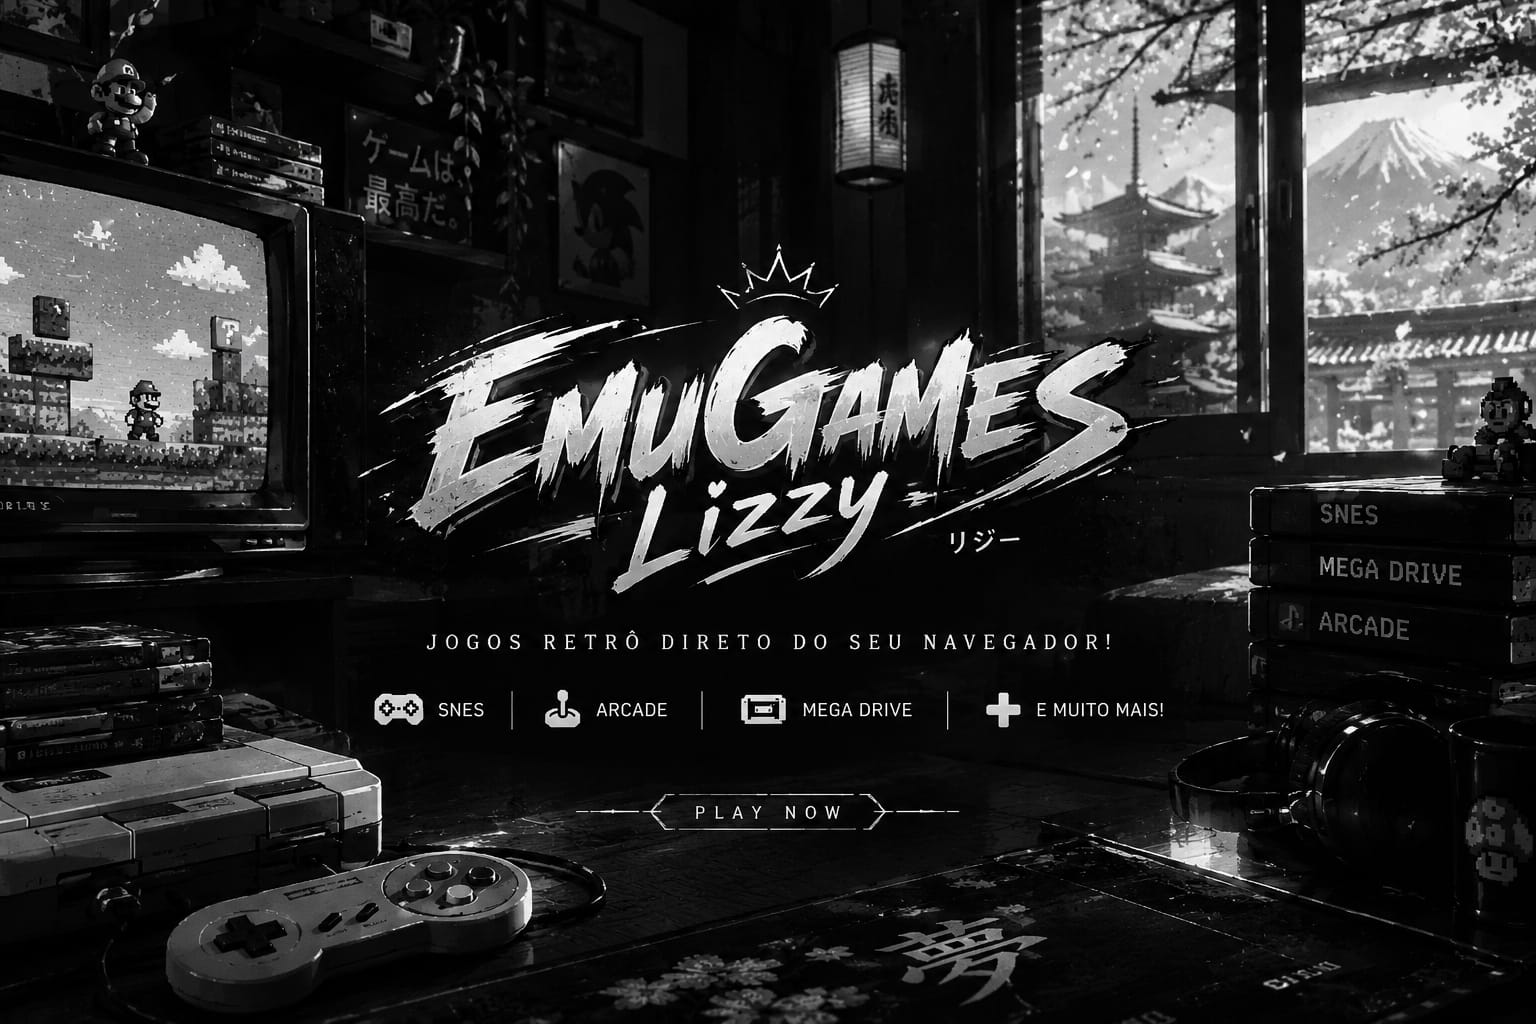
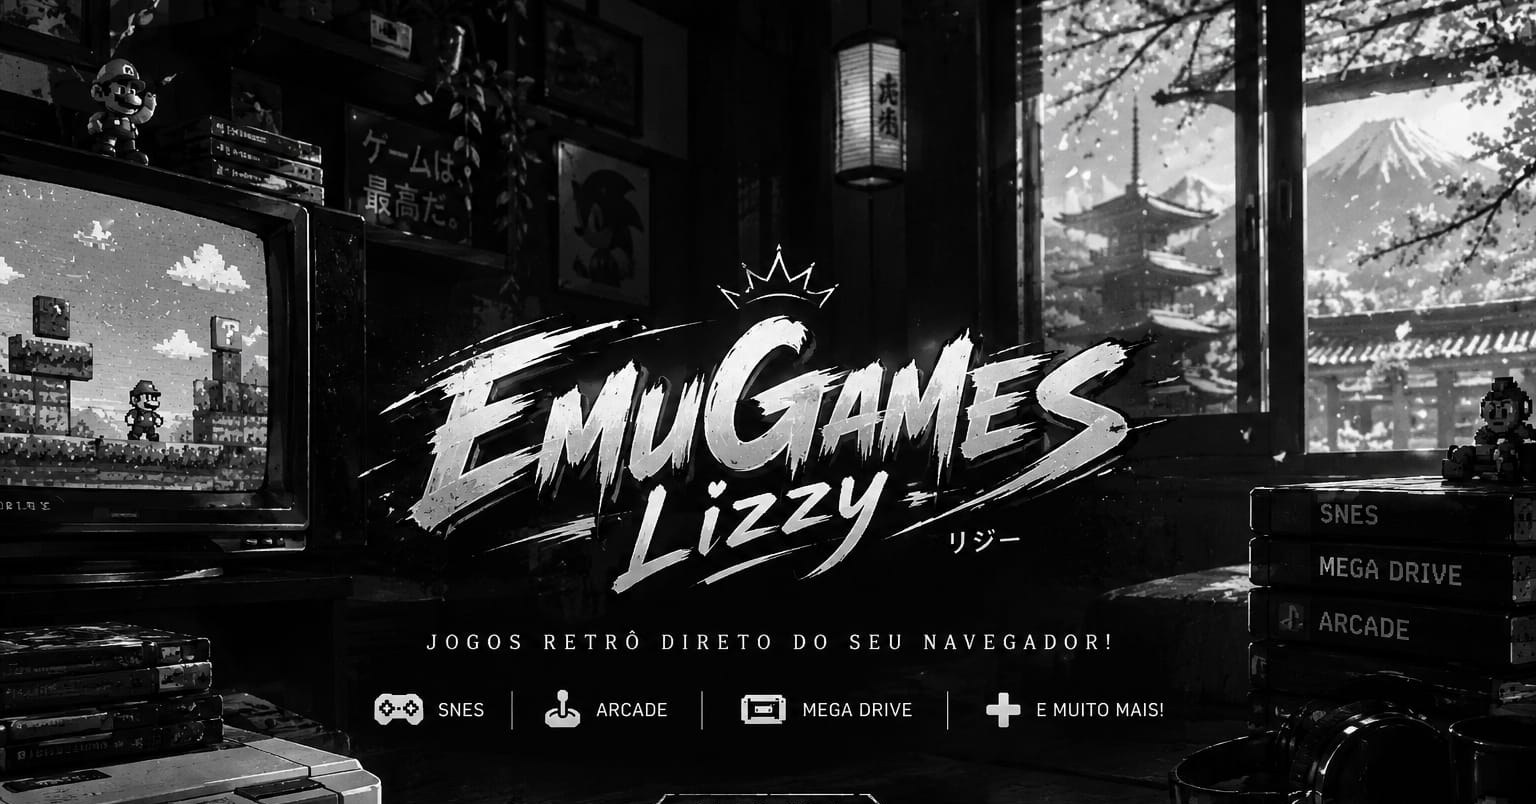
feat(home): cards de perfil grandes (preenchem o vazio) + preview 1.91:1
Cards de perfil:
- Ficam um embaixo do outro (Kannon/Criador primeiro), retangulares, com o
  conteudo centralizado: papel, nome e os botoes
- Crescem para absorver a sobra da home, entao preenchem o vazio do rodape
  em vez de deixar buraco (em telas altas ficam bem grandes)
- min-height min-content: sem isso o flex encolhia o card ABAIXO do conteudo
  em tela baixa e ele vazava para fora (documento ganhava rolagem)
- white-space nowrap no nome: o nome do Kannon e maior e, quebrando, o card
  dele ficava mais alto que o do M06

Preview do link:
- preview.jpg regerada em 1.91:1 (1536x804), a proporcao do preview GRANDE do
  WhatsApp; em 3:2 (1536x1024) ele cortava ou usava o card pequeno
- O corte manteve o TOPO: o assunto esta todo nos 512px de cima (medido por
  brilho/detalhe por linha); a metade de baixo e quase preta
- og:image:height atualizado para 804

Layout: em telas de altura media/baixa (900px/620px) os vaos, o video e os
cards de recentes encolhem para a home caber inteira.

Medido em 14 tamanhos (320x480 a 2560x1440): sem corte de card, sem overflow
horizontal; retrato e PC sem rolagem (paisagem rola, documentado).

diff --git a/style.css b/style.css
@@ -51,7 +51,11 @@ body:not(.jogando) { padding: 0; }
   /* Empilha do topo: recentes e biblioteca ficam juntos e os creditos vao para
      o rodape via `margin-top: auto` (ver `#creditos`). */
   gap: clamp(8px, 2vh, 16px);
-  height: 100dvh;
+  /* `min-height` em vez de `height` fixo: em tela ALTA a home ocupa exatamente
+     a viewport (e os cards de perfil absorvem a sobra, preenchendo o vazio);
+     em tela BAIXA ela cresce o necessario em vez de espremer/estourar. */
+  height: auto;
+  min-height: 100dvh;
   padding: var(--pad-top)
            calc(8px + env(safe-area-inset-right, 0px))
            calc(8px + env(safe-area-inset-bottom, 0px))
@@ -82,7 +86,7 @@ body:not(.jogando) { padding: 0; }
   margin-right: auto;
 }
 @supports not (height: 100dvh) {
-  #home { height: 100vh; }
+  #home { min-height: 100vh; }
 }
 #home .cabeca {
   /* Sem padding lateral: quem sangra e' o `#intro`, que precisa encostar nas
@@ -109,7 +113,7 @@ body:not(.jogando) { padding: 0; }
   margin-top: calc(-1 * (var(--pad-top) + var(--pad-cabeca-topo)));
   width: calc(100% + 2 * var(--pad-lado));
   margin-left: calc(-1 * var(--pad-lado));
-  height: clamp(108px, 24vh, 210px);
+  height: clamp(104px, 19vh, 210px);
   border-radius: 0 0 18px 18px;
   overflow: hidden;
   background: #05070a;
@@ -138,7 +142,9 @@ body:not(.jogando) { padding: 0; }
 /* A secao de recentes nao cresce alem do seu espaco: a faixa rola na
    horizontal e nunca empurra o resto para fora da tela. */
 #recentes {
-  min-height: 0;
+  /* Tamanho NATURAL e sem encolher: a faixa nunca e' cortada (tem overflow
+     hidden) nem espremida. Quem absorve a sobra sao os cards de perfil. */
+  flex: 0 0 auto;
   display: flex;
   flex-direction: column;
   gap: clamp(6px, 1.6vh, 12px);
@@ -304,22 +310,56 @@ h1 #marca { letter-spacing: 2px; }
   display: flex;
   flex-direction: column;
   gap: 8px;
-  margin-top: auto;
+  /* Absorve TODA a sobra da home: e' isso que faz os cards ficarem grandes e
+     o vazio sumir. SEM `min-height: 0`: com ele o flex encolhia abaixo do
+     conteudo e os cards vazavam para fora da tela (o documento ganhava
+     rolagem). Assim ele cresce quando sobra e nunca encolhe abaixo do natural. */
+  flex: 1 1 auto;
+  margin-top: clamp(8px, 2vh, 16px);
   margin-bottom: clamp(2px, 1vh, 10px);
 }
-/* Retangular: papel + nome a esquerda e os botoes a direita, na MESMA linha.
-   Em tela estreita o `wrap` joga os botoes para a linha de baixo sozinho. */
+/* Os dois cards crescem igualmente e ficam com a MESMA altura (o nome do
+   Kannon e' maior e, sem isto, o card dele ficava mais alto que o do M06).
+   `min-content` impede que encolham ABAIXO do conteudo em telas muito baixas:
+   nesse caso a home cresce (rola) em vez de cortar o card. */
+.perfil { flex: 1 1 0; min-height: min-content; }
+/*
+  Card GRANDE e retangular, que ocupa o espaco que sobrava na home.
+  O conteudo fica CENTRALIZADO e o card CRESCE em altura (`flex: 1 1 0` dentro
+  do `#creditos`, que absorve a sobra do `#home`) -- por isso ele preenche o
+  vazio em vez de deixar buraco.
+
+  Em tela BAIXA nao ha sobra: o card fica no tamanho natural, e para caber ele
+  usa a linha (papel + nome a esquerda, botoes a direita). Em tela ALTA
+  (>= 700px de altura) o conteudo empilha, ficando com a cara pedida:
+  papel / nome / botoes.
+*/
 .perfil {
   display: flex;
   flex-wrap: wrap;
   align-items: center;
-  gap: 6px 10px;
-  padding: 9px 12px;
+  justify-content: center;
+  gap: 6px 12px;
+  padding: clamp(8px, 2vh, 18px) clamp(10px, 3vw, 18px);
   background: var(--painel);
   border: 1px solid var(--borda);
-  border-radius: 14px;
-  text-align: left;
+  border-radius: 16px;
+  text-align: center;
 }
+
+/* Botoes: pilulas que dividem a largura do card. */
+.perfil-botoes {
+  display: flex;
+  flex-wrap: wrap;
+  justify-content: center;
+  gap: 8px;
+  flex: 1 1 190px;
+  min-width: 0;
+}
+/* O card fica SEMPRE na linha (compacto): assim ele cabe em qualquer altura e
+   ainda CRESCE para preencher a sobra da home. Empilhar deixava o card 2x mais
+   alto e estourava a tela em celular/laptop -- e a sobra continua sendo
+   preenchida de qualquer forma, porque quem cresce e' o card. */
 /* Papel de cada um (Criador / Parceiro), discreto ao lado do nome. */
 .perfil-papel {
   font-size: clamp(9.5px, 2.7vw, 11px);
@@ -335,9 +375,9 @@ h1 #marca { letter-spacing: 2px; }
   letter-spacing: .5px;
   line-height: 1.2;
   color: var(--texto);
-  overflow-wrap: anywhere;
-  /* empurra os botoes para a direita, deixando o card retangular */
-  margin-right: auto;
+  /* Nunca quebra: o nome do Kannon e' maior e, quebrando, o card dele ficava
+     mais alto que o do M06. Assim os dois cards ficam identicos. */
+  white-space: nowrap;
 }
 
 /* Botao do canal, abaixo da caixinha do WhatsApp. */
@@ -345,7 +385,8 @@ h1 #marca { letter-spacing: 2px; }
   display: inline-flex;
   align-items: center;
   justify-content: center;
-  padding: 7px 12px;
+  flex: 1 1 auto;
+  padding: 9px 12px;
   background: transparent;
   border: 1px solid var(--borda);
   border-radius: 999px;
@@ -370,7 +411,8 @@ h1 #marca { letter-spacing: 2px; }
   align-items: center;
   justify-content: center;
   gap: 6px;
-  padding: 8px 14px;
+  flex: 1 1 auto;
+  padding: 9px 14px;
   background: var(--painel2);
   border: 1px solid var(--borda);
   border-radius: 10px;
@@ -644,6 +686,15 @@ h1 #marca { letter-spacing: 2px; }
    HOME EM TELA BAIXA (celulares pequenos, ou paisagem)
    Compacta espacos e cards para tudo caber sem rolagem, SEM esconder nada.
    ========================================================================== */
+/* Telas de altura media (celular comum, laptop): o card de recentes encolhe um
+   pouco. Ele e' o maior bloco flexivel da home -- sem isso o total passava da
+   viewport e a pagina ganhava rolagem (ou o card era cortado). */
+@media (max-height: 900px) {
+  #recentes-lista .card-mini { width: clamp(84px, 12vh, 118px); }
+  #home { gap: clamp(6px, 1.4vh, 12px); }
+  #creditos { margin-top: clamp(6px, 1.4vh, 12px); margin-bottom: 2px; }
+}
+
 @media (max-height: 700px) {
   #home { gap: 6px; }
   #home .cabeca { --pad-cabeca-topo: 0px; }
@@ -662,13 +713,23 @@ h1 #marca { letter-spacing: 2px; }
   .perfil-canal { padding: 5px 8px; font-size: 10px; }
   .bib-icone { width: 34px; height: 34px; font-size: 17px; }
 }
-@media (max-height: 560px) {
-  #home { gap: 5px; }
-  #recentes-lista .card-mini { width: clamp(54px, 15vh, 72px); }
+/* Telas MUITO baixas (320x480, 320x568, paisagem): compacta tudo. Como a home
+   usa `min-height`, ela cresce em vez de cortar -- aqui so minimizamos o quanto
+   cresce, para caber na viewport sempre que der. */
+@media (max-height: 620px) {
+  #home { gap: 4px; }
+  #intro { height: clamp(84px, 17vh, 120px); }
+  #recentes .secao-titulo { font-size: 11px; }
+  #recentes-lista .card-mini { width: clamp(50px, 13vh, 68px); }
+  #recentes-lista .card-mini .nome { font-size: 9.5px; }
+  #abrir-biblioteca, #abrir-arquivo { padding: 6px 10px; }
+  .bib-icone { width: 30px; height: 30px; font-size: 15px; }
+  #creditos { gap: 5px; margin-top: 4px; margin-bottom: 2px; }
+  .perfil { padding: 5px 8px; gap: 2px 8px; }
+  .perfil-papel { font-size: 9px; }
+  .perfil-nome { font-size: 12.5px; }
+  .perfil-zap, .perfil-canal { padding: 5px 8px; font-size: 10px; }
   .bib-desc { display: none; }
-  .perfil { padding: 6px 6px; gap: 3px; }
-  .perfil-zap { padding: 5px 7px; }
-  .perfil-canal { padding: 4px 7px; }
 }
 
 /* ==========================================================================
@@ -1152,13 +1213,6 @@ body.girado #cheia { opacity: .6; padding: 7px 12px; font-size: 11px; }
   /* Em paisagem o padding encolhe (6px): as DUAS variaveis tem de acompanhar,
      senao o video cancela um valor que nao e' o real e sobra overflow. */
   #home { --pad-top: 6px; --pad-lado: 6px; }
-  /* Deitado a altura e' pequena demais para caber tudo (video + recentes +
-     2 cards + creditos) sem esconder alguma coisa. Aqui a home pode rolar --
-     em RETRATO ela nunca rola. Assim nada some. */
-  #home { height: auto; min-height: 100dvh; }
-  @supports not (height: 100dvh) {
-    #home { min-height: 100vh; }
-  }
 
   /* Deitado, a secao do jogo passa a ocupar tudo SOZINHA — nao precisa mais
      tocar no botao de tela cheia. */

diff --git a/index.html b/index.html
@@ -17,11 +17,13 @@
 <meta property="og:title" content="EmuGames Lizzy">
 <meta property="og:description" content="Jogos retrô direto do seu navegador: SNES, arcade e mais.">
 <meta property="og:url" content="https://emugames.kannonmtx.workers.dev/">
+<!-- A imagem e' 1.91:1 (1536x804), que e' a proporcao do preview GRANDE do
+     WhatsApp. Com a imagem quadrada/3:2 ele corta ou usa o card pequeno. -->
 <meta property="og:image" content="https://emugames.kannonmtx.workers.dev/preview.jpg">
 <meta property="og:image:secure_url" content="https://emugames.kannonmtx.workers.dev/preview.jpg">
 <meta property="og:image:type" content="image/jpeg">
 <meta property="og:image:width" content="1536">
-<meta property="og:image:height" content="1024">
+<meta property="og:image:height" content="804">
 <meta property="og:image:alt" content="EmuGames Lizzy">
 
 <meta name="twitter:card" content="summary_large_image">
@@ -81,24 +83,28 @@
     <div class="perfil">
       <p class="perfil-papel">Criador</p>
       <p class="perfil-nome">𝐊𝐚𝐧𝐧𝐨𝐧ᰔ𝐠𝐢</p>
-      <a class="perfil-zap" href="https://wa.me/5511978819676" target="_blank"
-        rel="noopener noreferrer">
-        <span class="zap-icone" aria-hidden="true">&#128172;</span>
-        <span>WhatsApp</span>
-      </a>
-      <a class="perfil-canal" href="https://whatsapp.com/channel/0029Vb8VWbG3WHTWX9ZPnj0Y"
-        target="_blank" rel="noopener noreferrer">Canal no WhatsApp</a>
+      <div class="perfil-botoes">
+        <a class="perfil-zap" href="https://wa.me/5511978819676" target="_blank"
+          rel="noopener noreferrer">
+          <span class="zap-icone" aria-hidden="true">&#128172;</span>
+          <span>WhatsApp</span>
+        </a>
+        <a class="perfil-canal" href="https://whatsapp.com/channel/0029Vb8VWbG3WHTWX9ZPnj0Y"
+          target="_blank" rel="noopener noreferrer">Canal no WhatsApp</a>
+      </div>
     </div>
     <div class="perfil">
       <p class="perfil-papel">Parceiro</p>
       <p class="perfil-nome">ᖼ06</p>
-      <a class="perfil-zap" href="https://wa.me/5511919516409" target="_blank"
-        rel="noopener noreferrer">
-        <span class="zap-icone" aria-hidden="true">&#128172;</span>
-        <span>WhatsApp</span>
-      </a>
-      <a class="perfil-canal" href="https://whatsapp.com/channel/0029Vb70POs9MF8tO5vFak1v"
-        target="_blank" rel="noopener noreferrer">Canal no WhatsApp</a>
+      <div class="perfil-botoes">
+        <a class="perfil-zap" href="https://wa.me/5511919516409" target="_blank"
+          rel="noopener noreferrer">
+          <span class="zap-icone" aria-hidden="true">&#128172;</span>
+          <span>WhatsApp</span>
+        </a>
+        <a class="perfil-canal" href="https://whatsapp.com/channel/0029Vb70POs9MF8tO5vFak1v"
+          target="_blank" rel="noopener noreferrer">Canal no WhatsApp</a>
+      </div>
     </div>
   </footer>
 </section>

diff --git a/README.md b/README.md
@@ -74,6 +74,33 @@ Flexbox; os créditos sobem para o rodapé via `margin-top: auto`. Em telas baix
 (`max-height: 700px` / `560px`) os espaços e os cards encolhem — nada é
 escondido. A faixa de recentes rola na horizontal, nunca na vertical.
 
+### Cards de perfil (créditos)
+
+Ficam **um embaixo do outro** (Kannon/Criador primeiro), retangulares e com o
+conteúdo centralizado. Eles **crescem para absorver a sobra** da home
+(`#creditos { flex: 1 1 auto }` + `.perfil { flex: 1 1 0 }`): é isso que
+preenche o vazio em vez de deixar buraco no rodapé.
+
+Duas armadilhas resolvidas aqui:
+
+- `min-height: min-content` no `.perfil` — sem isso o flex encolhia o card
+  **abaixo do conteúdo** em telas baixas e ele vazava para fora da tela.
+- `white-space: nowrap` no nome — o nome do Kannon é maior; quebrando, o card
+  dele ficava mais alto que o do M06.
+
+Em telas com pouca altura (`max-height: 900/620px`) os vãos, o vídeo e os cards
+de recentes encolhem para a home caber inteira.
+
+### Preview do link (Open Graph)
+
+`preview.jpg` é **1.91:1 (1536×804)** — a proporção do preview **grande** do
+WhatsApp. Com a imagem em 3:2 (1536×1024) ele cortava ou usava o card pequeno.
+O corte manteve o topo: o assunto da foto está todo nos 512px de cima e a
+metade de baixo é quase preta.
+
+Para trocar a imagem: gere em **1.91:1** (ex.: 1200×630) e atualize
+`og:image:width`/`height`.
+
 ### PC (telas largas)
 
 Em PC a janela é muito mais larga que um celular. Duas regras resolvem:
